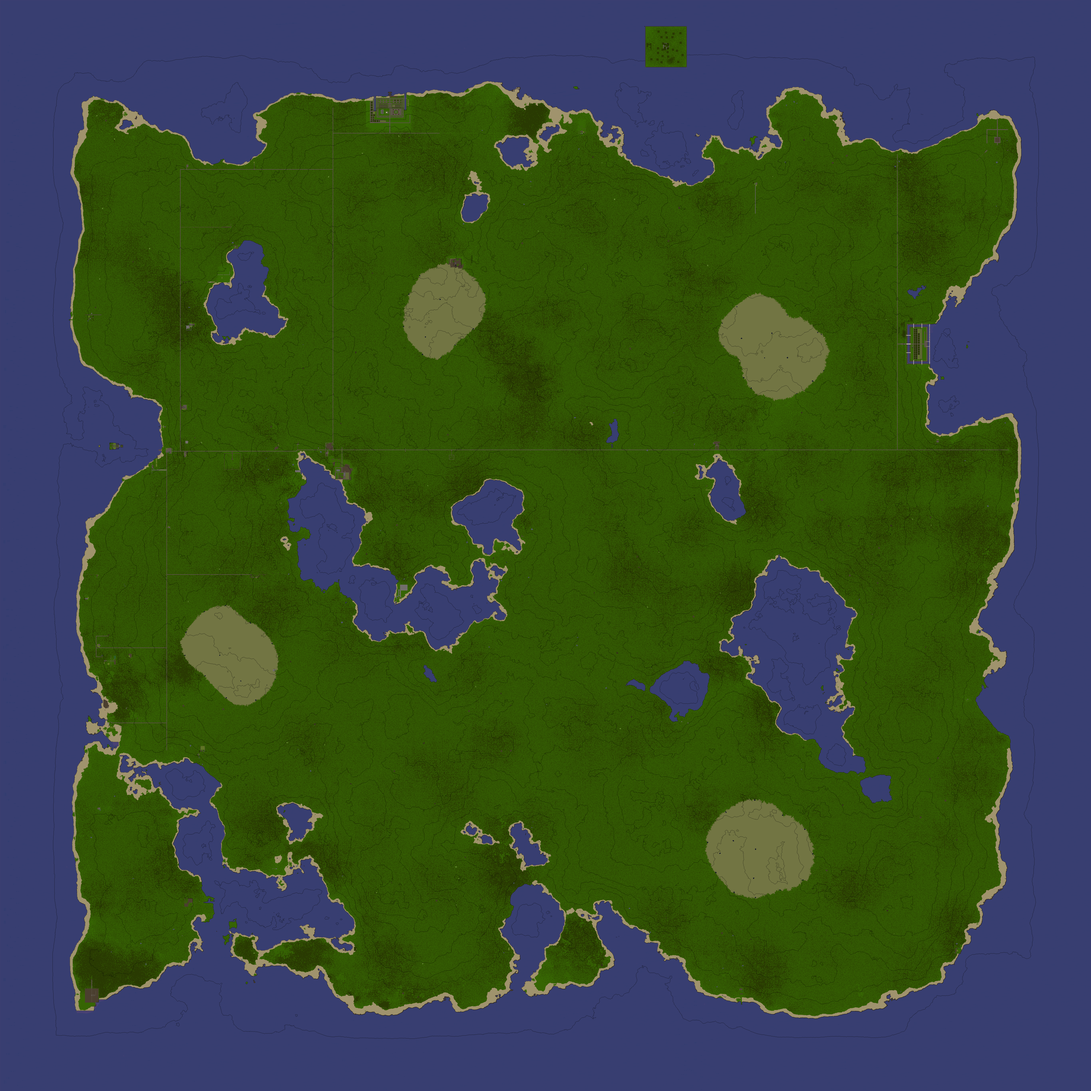
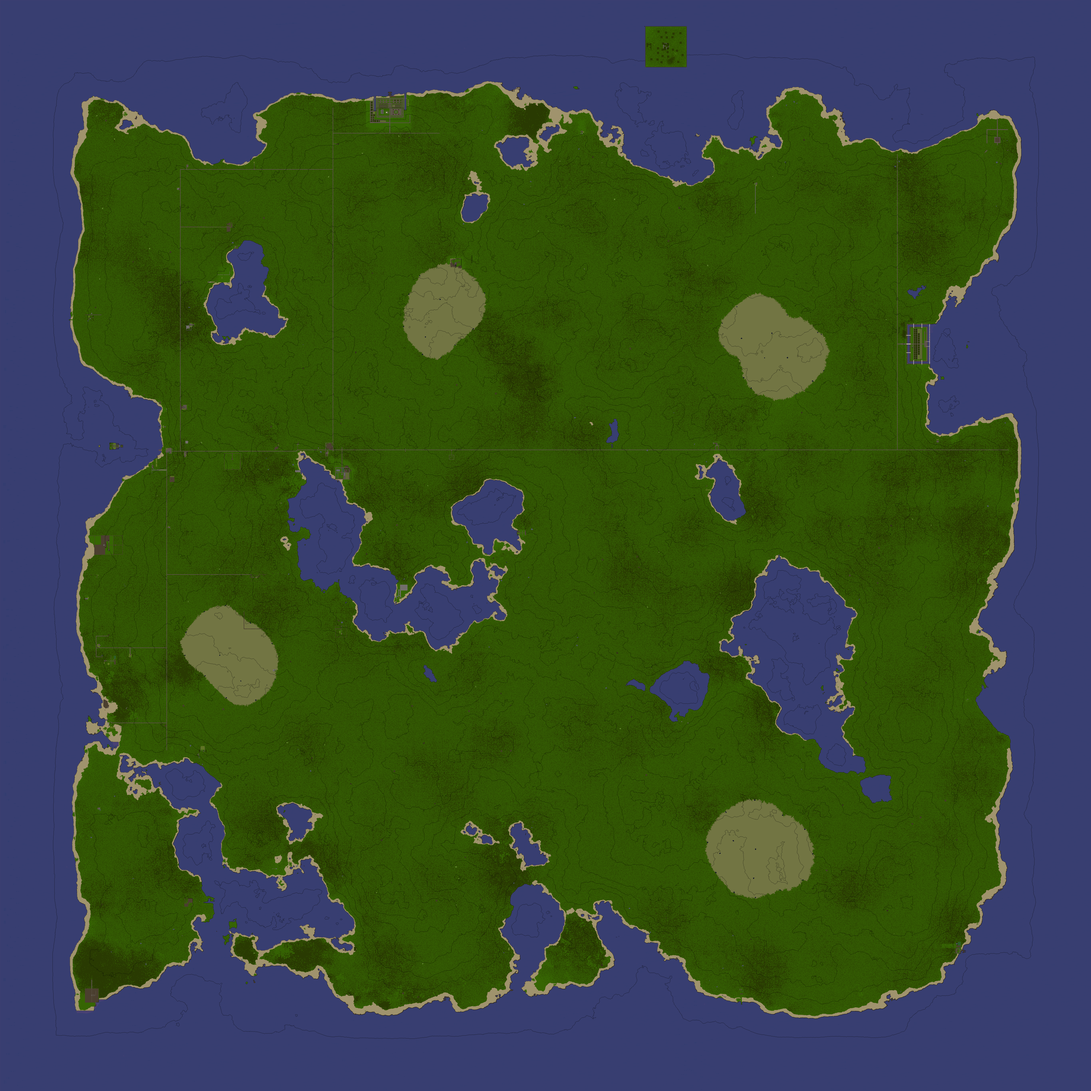
Add files via upload

diff --git a/config.js b/config.js
@@ -92,14 +92,14 @@ deeds.push(new Deed('Festers Place','Fester','Fester',1681193539891,false,4,965,
 deeds.push(new Deed('Elemental','Shadroth','Shadroth',1681994249293,false,4,695,1704,335,false,690,1695,710,1715,0));
 deeds.push(new Deed('Wherever','Billy','Billy',1682430633276,false,4,1226,1701,173,false,1221,1663,1248,1712,0));
 deeds.push(new Deed('Datadyne Hideout','Trenteaston','Trenteaston',1682601752740,false,4,693,1529,310,false,678,1519,703,1539,0));
-deeds.push(new Deed('Sorrowshade','Rasa','Rasa',1682608168346,false,4,3593,3569,13,false,3578,3559,3608,3579,0));
+deeds.push(new Deed('Sorrowshade','Rasa','Rasa',1682608168346,false,4,3593,3569,13,false,3578,3544,3613,3604,0));
 deeds.push(new Deed('The Last Of The Bean Family','Charleyboy','Charleyboy',1682789860427,false,4,1044,1676,105,false,1025,1663,1063,1689,0));
 deeds.push(new Deed('The Neighborhood Of Make-believe','Eteladric','Eteladric',1682886297785,false,4,772,1119,36,false,752,1109,777,1129,0));
 deeds.push(new Deed('Homestead','Simone','Simone',1682902466656,false,4,1133,1816,19,false,1128,1811,1138,1821,0));
 deeds.push(new Deed('Noreaster','Rosey','Rosey',1683202938487,false,4,3744,525,105,false,3704,485,3784,565,0));
 deeds.push(new Deed('Fredericks Town','Tinaskat','Tinaskat',1683460716996,false,4,867,852,309,false,852,837,882,867,0));
 deeds.push(new Deed('E N C L A V E','Shadowthief','Shadowthief',1683738624226,false,4,344,3736,55,false,319,3711,369,3776,0));
-deeds.push(new Deed('Lake View','Missnobody','Missnobody',1683826579832,false,4,1278,1775,40,false,1258,1755,1311,1800,5));
+deeds.push(new Deed('Lake View','Missnobody','Missnobody',1683826579832,false,4,1283,1776,40,false,1258,1753,1311,1800,5));
 deeds.push(new Deed('Shubsville','Shubs','Shubs',1684249269245,false,4,718,1220,192,false,698,1200,738,1240,0));
 deeds.push(new Deed('La Dimora','Mangurian','Mangurian',1684355786015,false,4,325,2246,54,false,320,2234,332,2251,0));
 deeds.push(new Deed('Polonia','Czemiel','Czemiel',1684504617340,false,4,339,1194,108,false,309,1164,369,1224,0));
@@ -112,6 +112,11 @@ deeds.push(new Deed('Danger Island','Dragon','Dragon',1685437803428,false,4,2500
 deeds.push(new Deed('Bottom\'s End','Scruffybottom','Scruffybottom',1685804745304,false,4,2693,1666,126,false,2673,1646,2713,1686,0));
 deeds.push(new Deed('Round Rock','Coulple','Coulple',1685837203026,false,4,3629,2626,76,false,3604,2616,3654,2636,5));
 deeds.push(new Deed('Winterfel','Eagle','Eagle',1686514223300,false,4,488,2460,267,false,483,2455,493,2465,0));
+deeds.push(new Deed('Narfolk','Gerald','Gerald',1687010021960,false,4,669,709,346,false,664,704,674,714,0));
+deeds.push(new Deed('Aiwendil','Radagast','Radagast',1687393331276,false,4,390,2046,83,false,320,2011,460,2081,0));
+deeds.push(new Deed('Nirvus Lakeside','Nirvus','Nirvus',1687399072815,false,4,1280,2370,153,false,1260,2350,1300,2390,0));
+deeds.push(new Deed('Lyngsta','Denully','Denully',1687643023700,false,4,643,1798,252,false,638,1788,653,1808,0));
+deeds.push(new Deed('Brolo','Danious','Danious',1687708939163,false,4,1951,2000,40,false,1936,1990,1976,2010,5));
 kingdoms[0] = new Kingdom(0,'no known kingdom','','[color-list]');
 kingdoms[1] = new Kingdom(1,'Jenn-Kellon','','');
 kingdoms[2] = new Kingdom(2,'Mol Rehan','','');
@@ -132,12 +137,13 @@ highwayNodes = [
    [571,1765,71,626,1765,140,1],[626,1765,140,571,1765,71,1],[625,1765,140,626,1766,140],[626,2715,331,625,2714,333],[626,2718,323,626,1697,66],
    [933,2157,227,1],[626,2157,409,937,2157,210,1],[627,2157,410,626,2158,408],[1250,1690,198,1249,1689,198],[1251,1689,198,1250,1690,198],
    [1251,1689,198,1250,1688,198],[677,1694,279,677,636,221,1],[3401,1292,135,1],[3369,1292,281,3402,1292,135,1],[1284,1690,228,1283,1689,228],
-   [1284,1690,228,1285,1689,228],[3369,1688,340,3370,1689,340],[3781,1689,83,1117,1689,62],[3370,1292,281,3369,1293,281],[1284,1688,228,1284,1690,228],
-   [1284,1688,228,1285,1689,228],[678,1694,280,677,1693,279],[1522,1689,396,1],[1284,1689,228,1],[1250,1689,198,1]
+   [1284,1690,228,1285,1689,228],[3369,1688,340,3370,1689,340],[3781,1689,83,1117,1689,62],[3370,1292,281,3369,1293,281],[1284,1688,228,1285,1689,228],
+   [678,1694,280,677,1693,279],[1522,1689,396,1],[1284,1689,228,1],[1250,1689,198,1],[1284,1757,62,1284,1756,62],
+   [1284,1754,65,1284,1688,228,1]
 ];
 bridgeNodes = [
 ];
 tunnelNodes = [
    [3786,1689,72,3782,1689,76,1]
 ];
-var timestamp = 1686591078665;
+var timestamp = 1687779492205;
